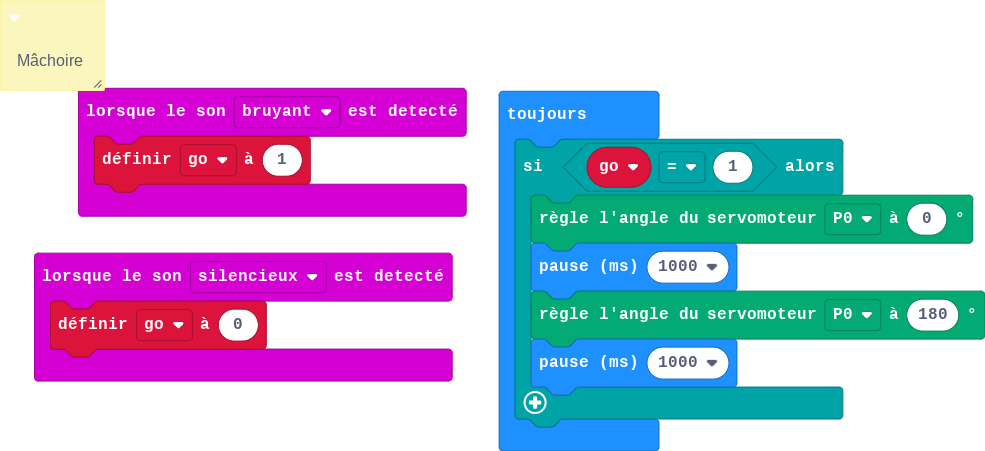
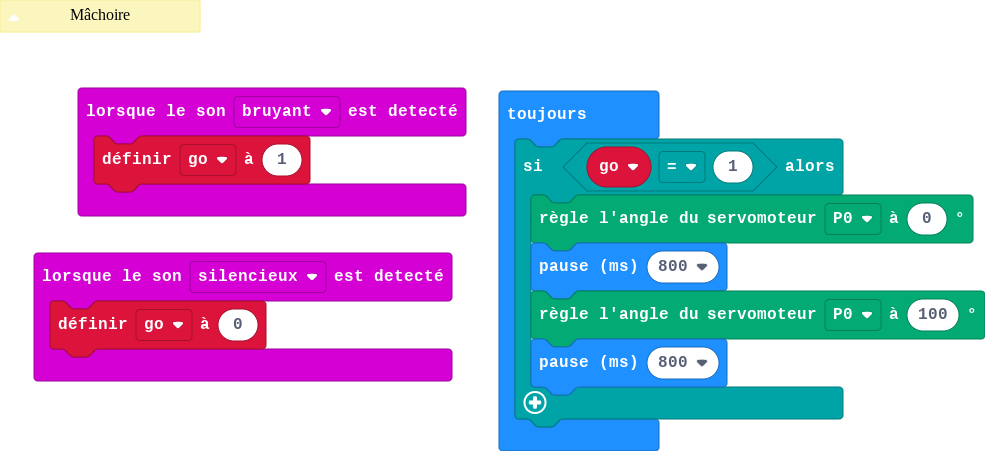
Mise à jour main.blocks, main.ts

diff --git a/main.ts b/main.ts
@@ -11,8 +11,8 @@ input.onSound(DetectedSound.Quiet, function () {
 basic.forever(function () {
     if (go == 1) {
         servos.P0.setAngle(0)
-        basic.pause(1000)
-        servos.P0.setAngle(180)
-        basic.pause(1000)
+        basic.pause(800)
+        servos.P0.setAngle(100)
+        basic.pause(800)
     }
 })
